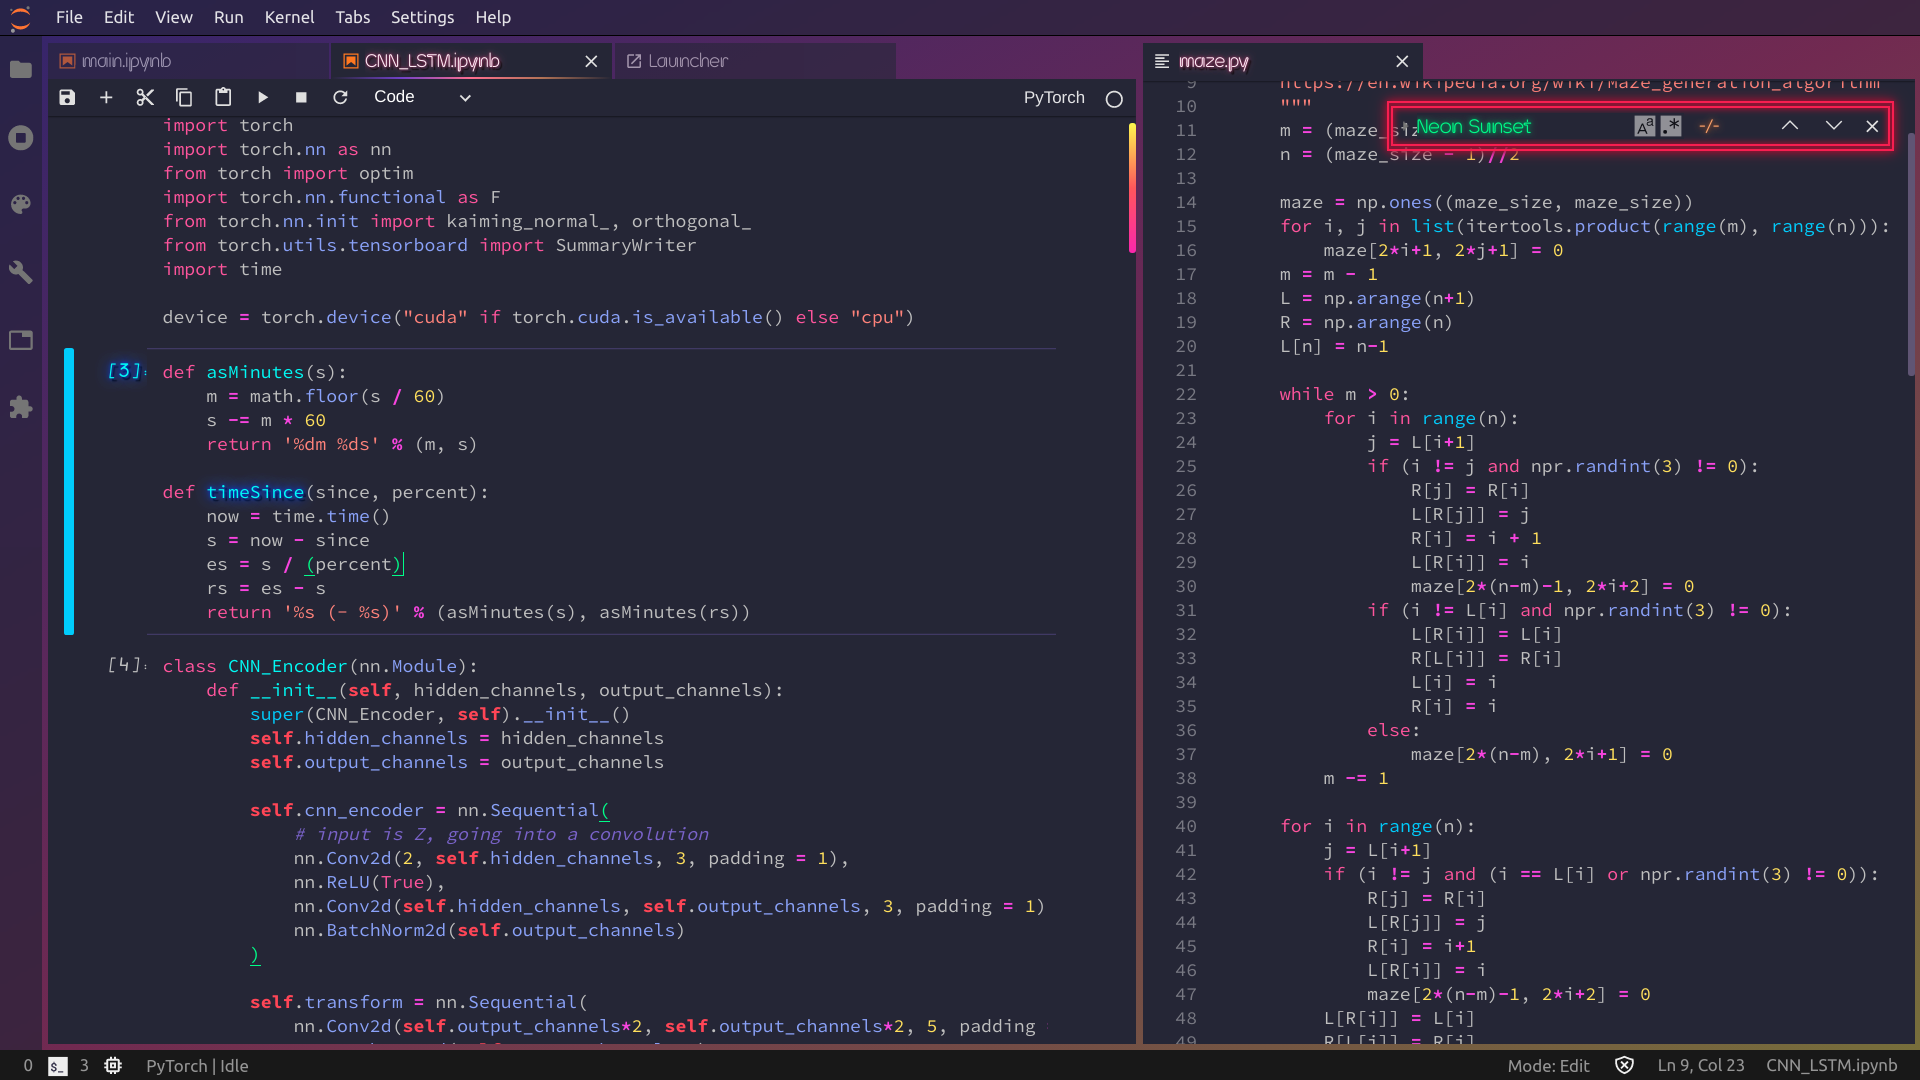
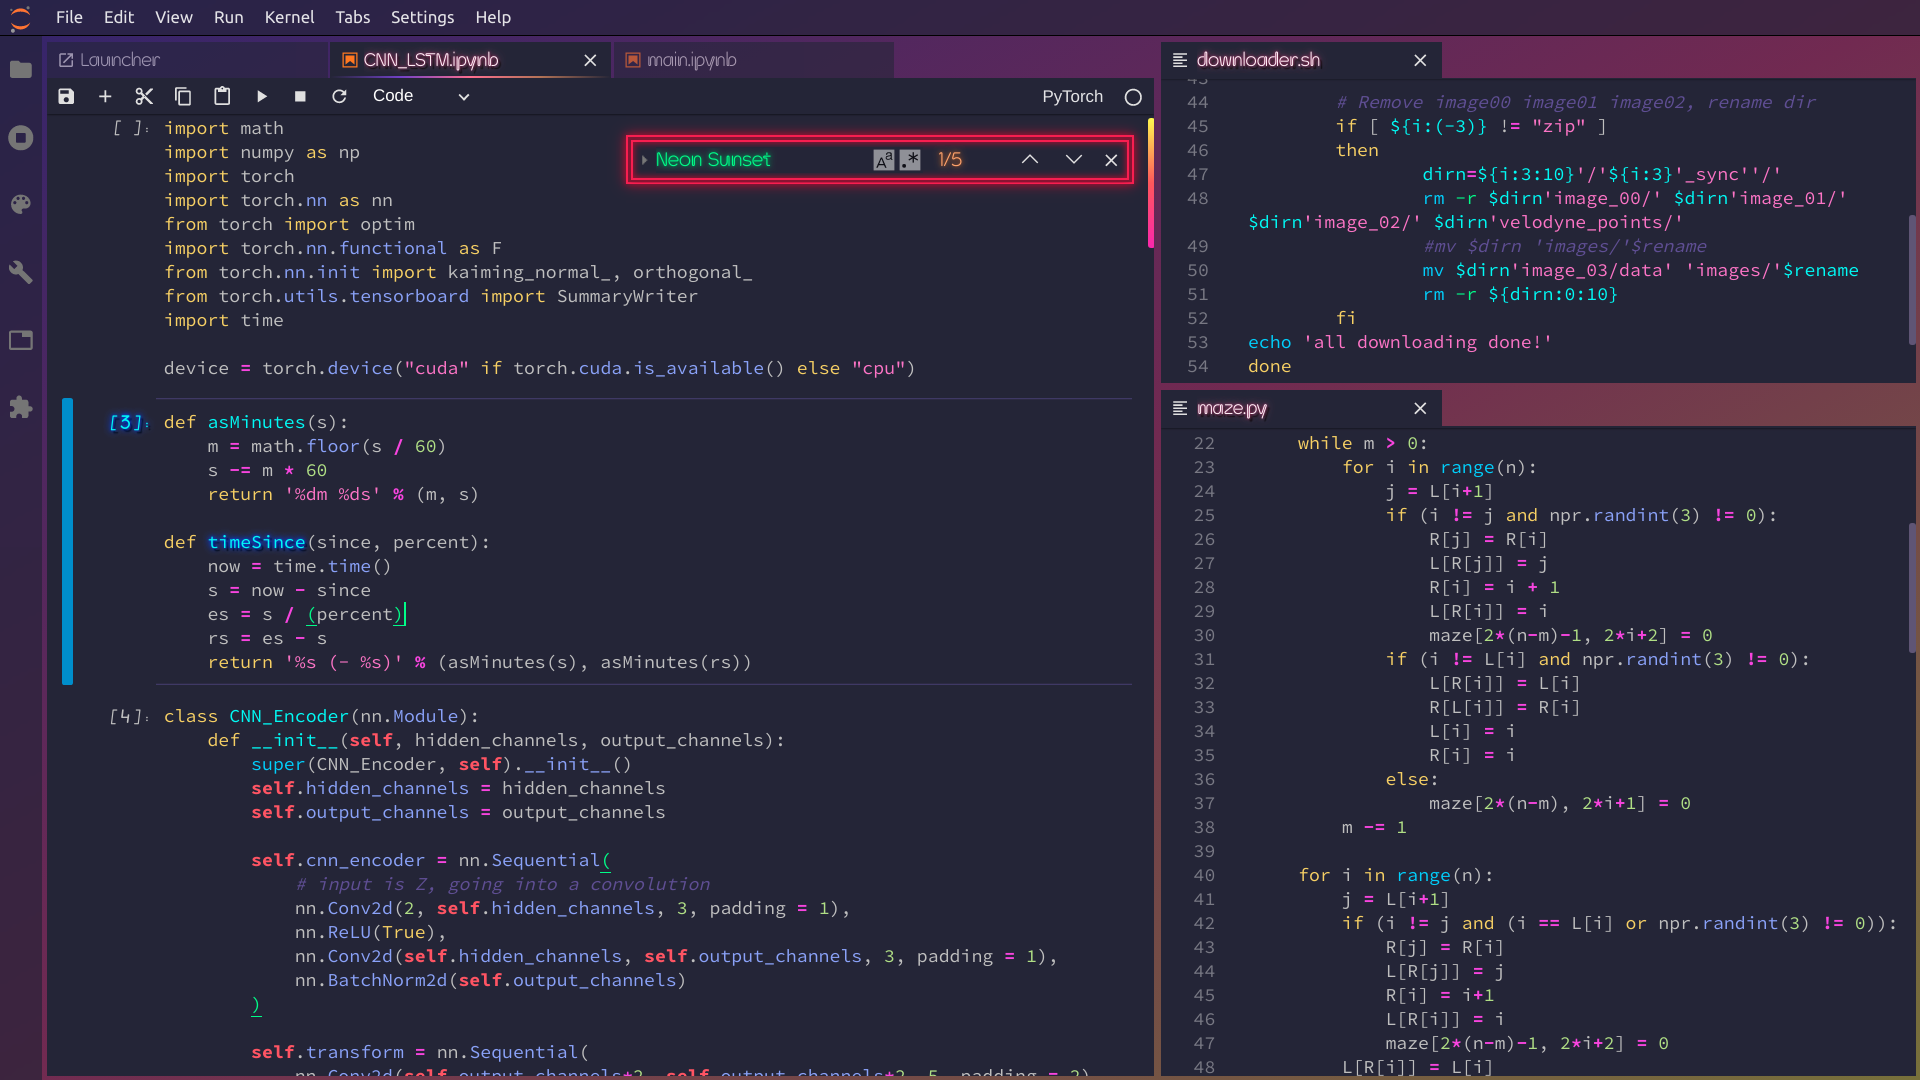
Version 1.0.0 release. Fixed all known issues.

diff --git a/style/variables.css b/style/variables.css
@@ -26,27 +26,29 @@ all of MD as it is not optimized for dense, information rich UIs.
 
 :root {
   /* Basic color scheme*/
-   --neon-night-red: #ff4954;
-   --neon-night-blue0: #00c9ff;
+   --neon-night-red: #ff5761;
+   --neon-night-blue0: #00ccff;
    --neon-night-blue1: #008bce;
-   --neon-night-yellow: #f9e24c;
-   --neon-night-green:#00ff80;
+   --neon-night-yellow: #f1d359;
+   --neon-night-green0:#00ff80;
+   --neon-night-green1:#b3e17f;
    --neon-night-cyan:#36f9f6;
-   --neon-night-peach0: #ff549d;
+   --neon-night-peach0: #ff63a6;
    --neon-night-peach1: #cb4d8e;
    --neon-night-pink: #f98478;
    --neon-night-purple0:#ef38e3;
    --neon-night-purple1:#929dfd;
-   --neon-night-purple2:#DF81FC;
-   --neon-night-purple3:#7b5ccc;
+   --neon-night-purple2:#f471c8;
+   --neon-night-purple3:#DF81FC;
+   --neon-night-purple4:#604a96;
    --neon-night-orange:#ff8b39;
    --neon-night-fg0:#bfbfbf;
-   --neon-night-bg0: #262537;
+   --neon-night-bg0: #252438;
    --neon-night-bg1: #302a46;
    --neon-night-bg2: hsl(250, 20%, 25%);
 
-   --neon-night-text-shadow0: 0 0 3px #0225ff, 0 0 10px #0225ff, 0 0 10px #0225ff, 2px 2px 1px #000;
-   --neon-night-text-shadow1: 0 0 3px #c10165, 0 0 10px #c10165, 0 0 10px #c10165, 2px 2px 1px #000;
+   --neon-night-text-shadow0: 0 0 2px #0225ff, 0 0 6px #0225ff, 0 0 6px #0225ff, 2px 2px 1px #000;
+   --neon-night-text-shadow1: 0 0 2px #c10165, 0 0 6px #c10165, 0 0 6px #c10165, 2px 2px 1px #000;
 
    --jp-private-horizontal-tab-height: 28px;
 
@@ -225,7 +227,7 @@ all of MD as it is not optimized for dense, information rich UIs.
   --jp-layout-color1: #222136;
   --jp-layout-color2: var(--neon-night-bg2);
   --jp-layout-color3: var(--neon-night-bg2);
-  --jp-layout-color4: var(--neon-night-peach1);
+  --jp-layout-color4: var(--neon-night-orange);
 
   /* Inverse Layout
    *
@@ -288,7 +290,7 @@ all of MD as it is not optimized for dense, information rich UIs.
   --jp-cell-editor-active-background: var(--neon-night-bg0);
   --jp-cell-editor-active-border-color: var(--jp-brand-color2);
 
-  --jp-cell-prompt-width: 56px;
+  --jp-cell-prompt-width: 64px;
   --jp-cell-prompt-font-family: 'Source Code Pro', monospace;
   --jp-cell-prompt-letter-spacing: 0px;
   --jp-cell-prompt-opacity: 1;
@@ -296,14 +298,14 @@ all of MD as it is not optimized for dense, information rich UIs.
   --jp-cell-prompt-not-active-font-color: var(--neon-night-fg0);
   /* A custom blend of MD grey and blue 600
    * See https://meyerweb.com/eric/tools/color-blend/#546E7A:1E88E5:5:hex */
-  --jp-cell-inprompt-font-color: #307fc1;
+  --jp-cell-inprompt-font-color: var(--neon-night-blue0);
   /* A custom blend of MD grey and orange 600
    * https://meyerweb.com/eric/tools/color-blend/#546E7A:F4511E:5:hex */
-  --jp-cell-outprompt-font-color: #bf5b3d;
+  --jp-cell-outprompt-font-color:  var(--neon-night-peach1);
 
   /* Notebook specific styles */
 
-  --jp-notebook-padding: 10px;
+  --jp-notebook-padding: 12px;
   --jp-notebook-select-background: #3c3050;
   --jp-notebook-multiselected-color: #3c3050;
 
@@ -355,32 +357,32 @@ all of MD as it is not optimized for dense, information rich UIs.
 
   --jp-editor-selected-background: var(--jp-layout-color2);
   --jp-editor-selected-focused-background: #3c3050;
-  --jp-editor-cursor-color: var(--neon-night-green);
+  --jp-editor-cursor-color: var(--neon-night-green0);
 
   /* Code mirror specific styles */
 
-  --jp-mirror-editor-keyword-color: var(--neon-night-peach0);
-  --jp-mirror-editor-atom-color: var(--neon-night-green);
-  --jp-mirror-editor-number-color: var(--neon-night-yellow);
+  --jp-mirror-editor-keyword-color: var(--neon-night-yellow);
+  --jp-mirror-editor-atom-color: var(--neon-night-peach0);
+  --jp-mirror-editor-number-color: var(--neon-night-green1);
   --jp-mirror-editor-def-color: var(--neon-night-cyan);
   --jp-mirror-editor-variable-color: var(--neon-night-fg0);
-  --jp-mirror-editor-variable-2-color: var(--neon-night-red);
-  --jp-mirror-editor-variable-3-color: var(--md-green-600);
-  --jp-mirror-editor-punctuation-color: var(--md-blue-400);
+  --jp-mirror-editor-variable-2-color: var(--neon-night-pink);
+  --jp-mirror-editor-variable-3-color: var(--neon-night-orange);
+  --jp-mirror-editor-punctuation-color: var(--neon-night-purple1);
   --jp-mirror-editor-property-color: var(--neon-night-purple1);
   --jp-mirror-editor-operator-color: var(--neon-night-purple0);
-  --jp-mirror-editor-comment-color: var(--neon-night-purple3);
-  --jp-mirror-editor-string-color: var(--neon-night-pink);
-  --jp-mirror-editor-string-2-color: var(--md-purple-300);
+  --jp-mirror-editor-comment-color: var(--neon-night-purple4);
+  --jp-mirror-editor-string-color: var(--neon-night-purple2);
+  --jp-mirror-editor-string-2-color:#b870ff;
   --jp-mirror-editor-meta-color: #b870ff;
-  --jp-mirror-editor-qualifier-color: var(--neon-night-purple2);
+  --jp-mirror-editor-qualifier-color: var(--neon-night-yellow);
   --jp-mirror-editor-builtin-color: var(--neon-night-blue0);
-  --jp-mirror-editor-bracket-color: #997;
-  --jp-mirror-editor-tag-color: var(--md-green-700);
-  --jp-mirror-editor-attribute-color: var(--md-blue-700);
-  --jp-mirror-editor-header-color: var(--md-blue-500);
-  --jp-mirror-editor-quote-color: var(--md-green-300);
-  --jp-mirror-editor-link-color: var(--neon-night-blue0);
+  --jp-mirror-editor-bracket-color: var(--neon-night-green0);
+  --jp-mirror-editor-tag-color: var(--neon-night-cyan);
+  --jp-mirror-editor-attribute-color: var(--neon-night-green0);
+  --jp-mirror-editor-header-color: var(--neon-night-peach0);
+  --jp-mirror-editor-quote-color: var(--neon-night-cyan);
+  --jp-mirror-editor-link-color: var(--neon-night-purple1);
   --jp-mirror-editor-error-color: var(--neon-night-red);
   --jp-mirror-editor-hr-color: #999;
 
@@ -399,7 +401,7 @@ all of MD as it is not optimized for dense, information rich UIs.
   --jp-search-toggle-on-opacity: 1;
   --jp-search-selected-match-background-color: var(--neon-night-orange);
   --jp-search-selected-match-color: black;
-  --jp-search-unselected-match-background-color: var(--neon-night-green);
+  --jp-search-unselected-match-background-color: var(--neon-night-green0);
   --jp-search-unselected-match-color: var(--jp-ui-inverse-font-color0);
 
   /* scrollbar related styles. Supports every browser except Edge. */

diff --git a/style/style.css b/style/style.css
@@ -1,4 +1,8 @@
 /* Fix layout color */
+#jupyterlab-splash.dark {
+  background-color: var(--neon-night-bg0);
+ }
+ 
 .cm-s-jupyter .CodeMirror-activeline-background,
 .cm-s-jupyter .CodeMirror-gutter, .p-DockPanel-tabBar .p-TabBar-tab,
 .p-DockPanel-tabBar .p-TabBar-tab.p-mod-current, 
@@ -17,6 +21,7 @@
 
  #jp-main-dock-panel {
   background: transparent;
+  padding: 4px;
  }
   
  .p-Menu, .jp-Tooltip {
@@ -40,15 +45,13 @@
 
 /* Brackets */
 div.CodeMirror span.CodeMirror-matchingbracket {
-  color: var(--neon-night-green);
-  border-bottom: 1px solid var(--neon-night-green);
-  line-height: 1;
+  color: var(--neon-night-green0);
+  border-bottom: 1px solid var(--neon-night-green0);
 }
 
 div.CodeMirror span.CodeMirror-nonmatchingbracket {
-  color: var(--horizon-red);
-  border-bottom: 1px solid var(--horizon-dark-red-1);
-  line-height: 0.55;
+  color: var(--neon-night-red);
+  border-bottom: 1px solid var(--neon-night-red);
 }
 
 /*Flat scrollbar */
@@ -88,20 +91,13 @@ div.CodeMirror span.CodeMirror-nonmatchingbracket {
   font-weight: normal;
 }
 
-.cm-s-jupyter span.cm-variable-2 {
+.jp-Cell .cm-s-jupyter span.cm-variable-2 {
+  color: var(--neon-night-red);
   font-weight: bold;
 }
 
-.jp-InputArea-editor {
-  padding: 3px var(--jp-code-padding);
-} 
-
-.jp-Notebook {
-  padding: 10px calc(56px - var(--jp-cell-padding)) 10px 0;
-}
-
-.jp-OutputArea-child .jp-OutputArea-output {
-  padding: var(--jp-code-padding);
+.jp-Cell .jp-InputArea-editor {
+  padding: 3px 0;
 }
 
 .jp-OutputArea-child .jp-RenderedImage.jp-OutputArea-output{
@@ -110,26 +106,23 @@ div.CodeMirror span.CodeMirror-nonmatchingbracket {
 
 .jp-OutputArea-child .jp-OutputArea-output {
   margin-bottom: 3px;
+  padding: var(--jp-code-padding);
   background-color: var(--neon-night-bg1);
   border-radius: 5px;
 }
 
 .jp-Cell {
-  padding: 3px var(--jp-cell-padding);
+  padding: 3px 0;
 }
 
 /* Notebook prompt */
-.jp-OutputPrompt, .jp-Notebook .jp-Cell .jp-InputPrompt {
-  padding-right: 0;
-}
-
- .jp-Notebook .jp-Cell .jp-InputPrompt {
+.jp-InputPrompt {
   color: var(--neon-night-cyan);
   text-shadow: var(--neon-night-text-shadow0);
-  padding-top: 10px;  /* Works well with 14px code size */
+  padding-top: 11px;  /* Works well with 14px code size */
 }
 
-.jp-Notebook .jp-Cell .jp-OutputPrompt {
+.jp-OutputPrompt {
   color: #ffc8e0;
   text-shadow: var(--neon-night-text-shadow1);
   padding-top: 8px;  /* Works well with 14px code size */
@@ -138,6 +131,10 @@ div.CodeMirror span.CodeMirror-nonmatchingbracket {
 .jp-Notebook .jp-Cell:not(.jp-mod-active) .jp-InputPrompt, 
 .jp-Notebook .jp-Cell:not(.jp-mod-active) .jp-OutputPrompt {
   text-shadow: none;
+}
+
+.jp-NotebookTools .jp-InputPrompt{
+  padding-top: 8px;
 }
 
 /* Notebook collapser */
@@ -229,7 +226,7 @@ div.CodeMirror span.CodeMirror-nonmatchingbracket {
 }
 
 .jp-Notebook  .CodeMirror-linenumber{
-  padding: 0 20px 0 8px;
+  padding: 0 16px 0 8px;
 }
 
 /* Notebook tab bar */
@@ -260,8 +257,13 @@ div.CodeMirror span.CodeMirror-nonmatchingbracket {
 }
 
 .jp-Toolbar {
+  padding: 0;
+}
+
+.jp-Toolbar.jp-NotebookPanel-toolbar {
   padding: 2px 0;
 }
+
 
 .p-DockPanel-tabBar .p-TabBar-tab:hover:not(.p-mod-current), 
 .p-DockPanel-tabBar .p-TabBar-tab.p-mod-current {
@@ -279,7 +281,8 @@ div.CodeMirror span.CodeMirror-nonmatchingbracket {
   margin: 16px 16px 0 0;
 }
 
-.jp-DocumentSearch-overlay, .jp-DocumentSearch-overlay-row:first-of-type {
+.jp-DocumentSearch-overlay, .jp-DocumentSearch-overlay-row:first-of-type, 
+.bp3-input-group.filter {
   border: 1.5px solid #eb244f;
   box-shadow: 0 0 5px 0 #951430, 0 0 10px 0px #951430, inset 0 0 5px 1px #951430;
 }
@@ -292,8 +295,8 @@ div.CodeMirror span.CodeMirror-nonmatchingbracket {
   padding: 2px;
 }
 
-.jp-DocumentSearch-input {
-  color: var(--neon-night-green);
+.jp-DocumentSearch-input, .filter .bp3-input{
+  color: var(--neon-night-green0);
   text-shadow: 0 0 5px #23854e, 0 0 5px #23854e, 0 0 2px #23854e;
 }
 
@@ -301,6 +304,10 @@ div.CodeMirror span.CodeMirror-nonmatchingbracket {
   font-size: 14px;
   color: #ffa666;
   text-shadow: 0 0 5px #854c23, 0 0 5px #854c23, 0 0 2px #854c23;
+}
+
+.jp-InputGroupAction {
+  padding: 5px;
 }
 
 /*Rendered text*/
@@ -313,7 +320,7 @@ div.CodeMirror span.CodeMirror-nonmatchingbracket {
 }
 
 .jp-RenderedText pre .ansi-green-fg {
-  color: var(--neon-night-green);
+  color: var(--neon-night-green0);
 }
 
 .jp-RenderedText pre .ansi-green-intense-fg {
@@ -325,9 +332,13 @@ div.CodeMirror span.CodeMirror-nonmatchingbracket {
 }
 
 .jp-DirListing-item.jp-mod-running .jp-DirListing-itemIcon:before {
-  color: var(--neon-night-green);
+  color: var(--neon-night-green0);
 }
 
 .jp-extensionmanager-buildprompt {
   color: var(--jp-ui-font-color1);
+}
+
+.cm-fat-cursor .CodeMirror-cursor {
+  width: var(--jp-code-cursor-width0);
 }

diff --git a/style/custom.css b/style/custom.css
@@ -58,7 +58,7 @@
 }
 
 /* Search tool */
-.jp-DocumentSearch-overlay * {
+.jp-DocumentSearch-overlay *,  .filter .bp3-input {
   font-family: 'Neon Bugler';
   font-size: 15px;
 }

diff --git a/README.md b/README.md
@@ -5,7 +5,7 @@ A flat, 80's neon inspired theme for JupyterLab.
 <img src="https://raw.githubusercontent.com/yeebc/jupyterlab-neon-theme/master/screenshots/Neon Night.png" />
 <img src="https://raw.githubusercontent.com/yeebc/jupyterlab-neon-theme/master/screenshots/Neon Sunset.png" />
 
-This theme is hightly inspired by artworks of 80's Neon, Synthwave and Cyberpunk. It is optimized for **long-term use** but cooool and colorful.
+This theme is hightly inspired by artworks of 80's Neon, Synthwave and Cyberpunk. It is optimized for **long-term use** but colorful and cooool.
 
 ## Bonuses
 1. Search tool + neon billboard
@@ -30,7 +30,7 @@ To change fonts of editor and neon, firstly, add your font files to [`fonts`](ht
 
 ## Prerequisites
 
-* JupyterLab >= 1.0.0
+* JupyterLab >= 1.1.0
 
 ## Installation
 
